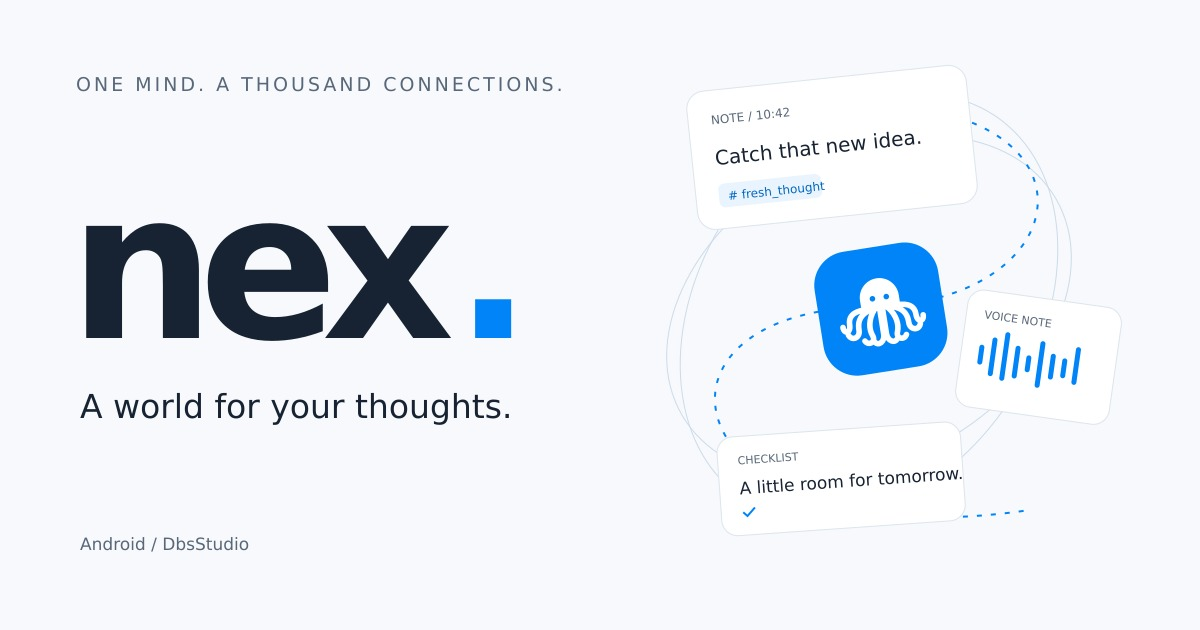
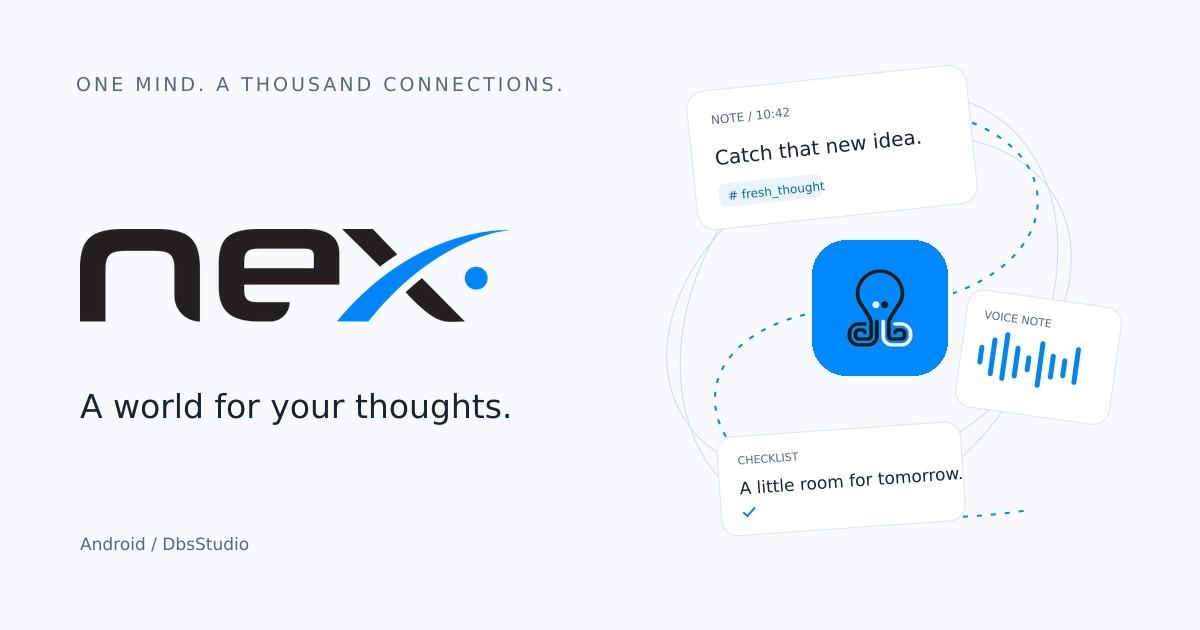
feat(nex): the real octopus and wordmark, and a share image that carries them
- NexMark is now the final octopus from the Nex brand files, and the new
  NexWordmark the "nex" logotype; both draw their outline in currentColor
  and their blue in --nx-mark-accent, so the same marks serve the light
  page, the dark one and the blue app tile.
- The masthead, the hero's app tile, the "first day" artwork and the footer
  use them in place of the provisional mark and the typed "nex.".
- og.jpg: the wordmark and the app icon replace the typed logo and the
  provisional octopus.
- README and PLACEHOLDERS: the logo TODO is done; store links and the app
  screenshot remain.

Claude-Session: https://claude.ai/code/session_012HC7oYUuF9sxZFHGGsEkEe

diff --git a/src/pages/nex-landing.css b/src/pages/nex-landing.css
@@ -62,9 +62,9 @@ html.dark .nex-page {
 .nex-shell { max-width: 1380px; padding: 0 50px; margin-inline: auto; }
 .nex-masthead { display: flex; align-items: center; justify-content: space-between; padding: 31px 0; gap: 20px; border-bottom: 1px solid var(--nx-rule); }
 .nex-brand { display: flex; align-items: center; gap: 8px; color: var(--nx-ink); text-decoration: none; }
-.nex-brand > span { font: 700 35px/1 "Nex Inter", sans-serif; letter-spacing: -2px; }
-.nex-brand-dot { color: var(--nx-blue); }
-.nex-mark { width: 37px; height: 37px; color: var(--nx-blue); }
+.nex-brand { --nx-mark-accent: var(--nx-blue); }
+.nex-wordmark { height: 26px; width: auto; color: var(--nx-ink); }
+.nex-mark { width: 30px; height: 36px; color: var(--nx-ink); }
 .nex-masthead-line { color: var(--nx-muted); font-size: 12px; margin-inline-start: auto; margin-inline-end: 34px; }
 .nex-tools { display: flex; align-items: center; gap: 8px; color: var(--nx-muted); font-size: 12px; }
 .nex-tools > a { display: inline-flex; align-items: center; min-height: 44px; padding-inline: 7px; text-decoration: none; }
@@ -103,9 +103,9 @@ html.dark .nex-theme-sun { display: block; }
 .nex-connections circle { fill: var(--nx-blue); stroke: none; }
 .nex-connections .nex-connection-thread { stroke: var(--nx-blue); stroke-width: 1.4; stroke-dasharray: 6 8; animation: nex-thread 20s linear infinite; }
 .nex-thought-core { position: absolute; top: 32%; left: 37%; width: 137px; height: 137px; display: flex; align-items: center; justify-content: center; flex-direction: column; gap: 3px; background: var(--nx-blue); color: #fff; border-radius: 42px; transform: rotate(-11deg); animation: nex-core-float 6s ease-in-out infinite; }
-.nex-thought-core svg { --nx-card: var(--nx-blue); width: 80px; height: 80px; }
-.nex-thought-core > span { font: 700 22px/1 "Nex Inter", sans-serif; letter-spacing: -1px; }
-html.dark .nex-thought-core { color: #0b111b; }
+.nex-thought-core { --nx-mark-accent: #fff; color: #10151d; }
+.nex-thought-core svg { width: 62px; height: 72px; }
+.nex-thought-core svg.nex-core-word { width: 64px; height: auto; margin-top: 4px; }
 .nex-scene-note { position: absolute; background: var(--nx-card); border: 1px solid var(--nx-rule); border-radius: 18px; padding: 19px; box-shadow: 0 16px 40px var(--nx-shadow); transform-origin: center; transition: transform .7s cubic-bezier(.2,.7,.2,1), border-color .4s, box-shadow .4s; }
 .nex-scene-meta { display: flex; align-items: center; gap: 6px; font-size: 10px; color: var(--nx-muted); margin-bottom: 13px; }
 .nex-scene-meta > span:last-child:not(:nth-child(2)) { margin-inline-start: auto; }
@@ -241,8 +241,8 @@ html.dark .nex-thought-core { color: #0b111b; }
 .nex-ai-switch i::before { content: ""; width: 18px; height: 18px; background: var(--nx-card); border-radius: 50%; }
 .nex-origin-world { display: grid; grid-template-columns: 1fr 1fr; gap: 50px; align-items: center; padding: 40px 0; }
 .nex-origin-art { position: relative; height: 290px; display: flex; align-items: center; justify-content: center; direction: ltr; }
-.nex-origin-art > span { font: 800 clamp(130px,15vw,230px)/1 "Nex Inter", sans-serif; letter-spacing: -15px; color: var(--nx-tint); -webkit-text-stroke: 1px var(--nx-rule); }
-.nex-origin-mark { position: absolute; width: 145px; height: 145px; color: var(--nx-blue); transform: rotate(-12deg); animation: nex-origin-wave 7s ease-in-out infinite; }
+.nex-origin-word { width: clamp(260px,30vw,440px); height: auto; color: var(--nx-tint); --nx-mark-accent: var(--nx-tint); }
+.nex-origin-mark { position: absolute; width: 130px; height: 151px; color: var(--nx-ink); --nx-mark-accent: var(--nx-blue); transform: rotate(-8deg); animation: nex-origin-wave 7s ease-in-out infinite; }
 .nex-origin-copy > p { color: var(--nx-muted); font-size: 14px; margin-top: 17px; }
 .nex-origin-copy .nex-origin-tagline { color: var(--nx-ink); font-weight: 500; }
 .nex-origin-copy a { display: inline-flex; align-items: center; min-height: 44px; color: var(--nx-muted); text-decoration: none; font-size: 12px; margin-top: 10px; }
@@ -318,8 +318,8 @@ html.dark .nex-thought-core { color: #0b111b; }
   .nex-scene-wave i { max-height: 39px; }
   .nex-scene-voice p { font-size: 9px; }
   .nex-thought-core { width: 85px; height: 85px; border-radius: 24px; top: 31%; }
-  .nex-thought-core svg { width: 51px; height: 51px; }
-  .nex-thought-core > span { font-size: 16px; }
+  .nex-thought-core svg { width: 40px; height: 46px; }
+  .nex-thought-core svg.nex-core-word { width: 44px; }
   .nex-capture-switch { margin-top: 17px !important; }
   .nex-capture-switch label > span { padding: 9px 11px; gap: 5px; font-size: 10px; }
   .nex-capture-switch legend { font-size: 10px; }
@@ -344,16 +344,16 @@ html.dark .nex-thought-core { color: #0b111b; }
   .nex-yesterday-notes .nex-card { transform: none; margin: 0; }
   .nex-origin-world { grid-template-columns: 1fr; gap: 0; padding-top: 0; }
   .nex-origin-art { height: 220px; }
-  .nex-origin-art > span { font-size: 180px; }
-  .nex-origin-mark { width: 110px; height: 110px; }
+  .nex-origin-word { width: 240px; }
+  .nex-origin-mark { width: 96px; height: 112px; }
   .nex-origin-copy { text-align: center; }
   .nex-final-cta { padding: 19px 20px; font-size: 14px; }
   .nex-footer { margin-top: 50px; font-size: 10px; }
 }
 @media (max-width: 380px) {
   .nex-shell { padding-inline: 15px; }
-  .nex-brand > span { font-size: 29px; }
-  .nex-mark { width: 30px; height: 30px; }
+  .nex-wordmark { height: 22px; }
+  .nex-mark { width: 25px; height: 30px; }
   .nex-tools { gap: 4px; }
   .nex-tools button { width: 40px; height: 40px; }
   .nex-tools > a { font-size: 11px; }
@@ -413,3 +413,7 @@ html.dark .nex-thought-core { color: #0b111b; }
 .nex-wave-40 { height: 40px; }
 .nex-wave-43 { height: 43px; }
 .nex-wave-46 { height: 46px; }
+
+/* The real wordmark in the footer, at the size of the words beside it. */
+.nex-footer-brand { display: inline-flex; align-items: center; gap: 6px; --nx-mark-accent: var(--nx-blue); }
+.nex-footer-word { height: 13px; width: auto; color: var(--nx-ink); }

diff --git a/src/components/nex/NexMark.tsx b/src/components/nex/NexMark.tsx
@@ -1,12 +1,16 @@
-/** Small provisional octopus mark; replace with the final brand asset when supplied. */
-export default function NexMark({ className = "" }: { className?: string }) {
+/**
+ * The Nex octopus: one mind, a thousand connections.
+ *
+ * Drawn from the brand file in the Nex repository (`docs/brand/nex_logo.svg`): the
+ * outline takes `currentColor`, and the blue part `--nx-mark-accent`, so one
+ * mark serves a light page, a dark one and the blue app tile alike.
+ */
+export default function NexMark({ className = "", title }: { className?: string; title?: string }) {
   return (
-    <svg className={className} viewBox="0 0 64 64" fill="none" aria-hidden="true">
-      <path d="M18 34V25a14 14 0 0 1 28 0v9" fill="currentColor" />
-      <g stroke="currentColor" strokeWidth="5" strokeLinecap="round">
-        <path d="M20 32c-8 0-12 3-12 9s-5 6-5 1M23 33c-8 3-9 8-9 13s-6 7-8 2M27 33c-5 6-6 13-4 18s-4 7-6 3M31 33v18c0 6-5 8-7 5M33 33v18c0 6 5 8 7 5M37 33c5 6 6 13 4 18s4 7 6 3M41 33c8 3 9 8 9 13s6 7 8 2M44 32c8 0 12 3 12 9s5 6 5 1" />
-      </g>
-      <g fill="var(--nx-card, #fff)"><circle cx="27" cy="25" r="2" /><circle cx="37" cy="25" r="2" /></g>
+    <svg className={className} viewBox="0 0 236.1915 274.4374" role={title ? "img" : undefined} aria-hidden={title ? undefined : true} aria-label={title}>
+      <path fill="currentColor" d="M108.6274,172.054c-2.9109-.0014-5.4976,2.2664-5.519,5.4205l-.1368,20.1978-.1173,25.3949c-.0482,10.4166-10.7,18.5768-20.7668,18.5532l-28.5762-.0668c-10.3431-.4128-20.1362-10.3821-20.183-20.4744l-.0492-10.601c0-.0037.0002-.0073.0002-.011.403-7.9166,5.2051-14.6503,12.0643-18.3325,3.597-1.931,7.2662-2.8043,11.3593-2.7962l8.2596.0164,9.056.0322c2.7626.0098,5.0063-2.2293,5.0021-4.992-.0042-2.7495-2.234-4.9763-4.9835-4.9768l-18.5241-.0034c-5.485.2311-10.5704,1.4846-15.3559,4.1522-6.4368,3.5881-11.6586,8.9697-14.9488,15.5867-3.401,6.8397-3.7127,15.5106-3.0237,23.0826.402,4.4173,1.7016,8.7273,3.9644,12.5422,3.5679,6.0152,8.694,10.8138,14.9407,13.8792,4.2614,2.0911,8.6578,3.0325,13.422,3.026l27.9886-.038c6.784-.0092,13.1212-2.0891,18.601-5.9681,2.7289-1.9318,5.0879-4.0449,7.101-6.7124,3.7136-4.921,5.9424-10.6293,5.9483-16.9135l.0416-44.4263c.0031-3.2724-2.5424-5.5701-5.5646-5.5715Z" />
+      <path fill="currentColor" d="M164.9855,55.278c10.3053,12.3194,15.2648,28.3142,13.4786,44.3103-.9949,8.9104-4.9261,17.3772-9.8051,24.8089l-5.7944,8.8261-6.7977,10.4227c-4.022,6.1669-7.8889,12.252-11.4667,18.681l-3.0257,6.1617c-2.3876,4.8624-2.8956,9.9833-2.8782,15.3888l.1199,37.317c.0228,7.0851,6.7451,12.9695,13.7455,12.9726l29.2828.0129c2.9592.0013,5.6697-1.1006,7.9923-2.7471,3.5342-2.5053,5.8526-6.3134,6.09-10.6855.1696-3.1231.2308-6.1141-.0728-9.2849-.7532-7.8677-7.451-13.9319-15.3707-13.9448l-10.6483-.0173c-6.9958-.0114-12.675,5.653-12.6821,12.6487-.0025,2.4847,2.0095,4.5012,4.4942,4.5043l1.7687.0023c2.4738.0031,4.4861-1.9914,4.5052-4.4651.0115-1.4948,1.2312-2.6979,2.726-2.689l9.5457.0566c2.9779.0176,5.1542,2.6768,5.1259,5.4799l-.0653,6.4632c-.026,2.5661-2.5486,4.7206-5.1884,4.7247l-24.9561.0389c-2.8465.0044-5.3843-2.4256-5.3867-5.2321l-.0317-37.36c-.0029-3.4337.9073-6.6132,2.3858-9.5922l1.6119-3.248c3.5032-6.2958,7.3059-12.2708,11.2437-18.3436l15.2606-23.5348c3.877-5.9791,6.6165-12.4188,8.2414-19.3401,3.9214-16.7032-.2288-36.2953-9.5403-50.6548-5.3591-8.2641-12.2083-15.4023-20.1663-21.1974-5.0789-3.6984-10.4885-6.512-16.3832-8.6584-7.8343-2.8527-15.8136-4.2911-23.7484-4.35h-1c-7.9348.0588-15.9141,1.4973-23.7484,4.35-5.8947,2.1464-11.3043,4.96-16.3832,8.6584-7.9581,5.795-14.8073,12.9333-20.1663,21.1974-9.3116,14.3594-13.4617,33.9515-9.5403,50.6548,1.6249,6.9213,4.3644,13.361,8.2414,19.3401l15.2606,23.5348c3.9378,6.0729,7.7405,12.0479,11.2437,18.3436l1.6119,3.248c1.4785,2.9789,2.3887,6.1584,2.3858,9.5922l-.0317,37.36c-.0024,2.8065-2.5402,5.2365-5.3867,5.2321l-24.9561-.0389c-2.6398-.0041-5.1624-2.1586-5.1884-4.7247l-.0653-6.4632c-.0284-2.8031,2.1479-5.4622,5.1259-5.4799l9.5457-.0566c1.4948-.0089,2.7144,1.1943,2.726,2.689.019,2.4738,2.0314,4.4682,4.5052,4.4651l1.7687-.0023c2.4847-.0031,4.4967-2.0195,4.4942-4.5043-.0071-6.9958-5.6863-12.6601-12.6821-12.6487l-10.6483.0173c-7.9197.0128-14.6176,6.077-15.3707,13.9448-.3036,3.1708-.2423,6.1618-.0728,9.2849.2374,4.3721,2.5558,8.1802,6.09,10.6855,2.3226,1.6464,5.0331,2.7484,7.9923,2.7471l29.2828-.0129c7.0005-.0031,13.7227-5.8875,13.7455-12.9726l.1199-37.317c.0174-5.4055-.4906-10.5264-2.8782-15.3888l-3.0257-6.1617c-3.5778-6.4291-7.4446-12.5142-11.4667-18.681l-6.7977-10.4227-5.7944-8.8261c-4.879-7.4317-8.8102-15.8985-9.8051-24.8089-1.7862-15.9961,3.1733-31.9909,13.4786-44.3103,6.0887-7.2787,13.7703-13.0823,22.3987-17.0183,7.7969-3.5567,15.9079-5.3321,23.991-5.4078h1c8.0831.0757,16.1942,1.8511,23.991,5.4078,8.6284,3.936,16.3101,9.7396,22.3987,17.0183Z" />
+      <path fill="var(--nx-mark-accent, #0084f7)" d="M210.9834,199.1538c-3.2903-6.6169-8.512-11.9985-14.9489-15.5867-4.7854-2.6676-9.8708-3.9211-15.3559-4.1522l-18.524.0034c-2.7495.0005-4.9794,2.2273-4.9836,4.9768-.0042,2.7627,2.2394,5.0018,5.0021,4.992l9.0559-.0322,8.2596-.0164c4.0931-.0081,7.7623.8652,11.3593,2.7962,6.8591,3.6822,11.6613,10.416,12.0643,18.3325.0001.0037.0002.0073.0003.011l-.0492,10.601c-.0468,10.0923-9.84,20.0616-20.183,20.4744l-28.5763.0668c-10.0669.0236-20.7187-8.1366-20.7668-18.5532l-.1174-25.3949-.1368-20.1978c-.0214-3.1541-2.6082-5.4219-5.519-5.4205-3.0222.0015-5.5676,2.2991-5.5646,5.5715l.0416,44.4263c.0059,6.2842,2.2346,11.9926,5.9482,16.9135,2.0131,2.6675,4.372,4.7806,7.101,6.7124,5.4799,3.879,11.817,5.9589,18.601,5.9681l27.9885.038c4.7642.0065,9.1607-.9349,13.422-3.026,6.2466-3.0653,11.3729-7.864,14.9407-13.8792,2.2628-3.8149,3.5625-8.1249,3.9644-12.5422.689-7.572.3773-16.2429-3.0236-23.0826Z" />
     </svg>
   );
 }

diff --git a/src/pages/NexLandingPage.tsx b/src/pages/NexLandingPage.tsx
@@ -4,6 +4,7 @@ import { ArrowDown, ArrowDownLeft, ArrowUp, Check, Circle, FileText, Image, Link
 import { PageMeta } from "../components/PageMeta";
 import LocalNote from "../components/nex/LocalNote";
 import NexMark from "../components/nex/NexMark";
+import NexWordmark from "../components/nex/NexWordmark";
 import ThoughtStage from "../components/nex/ThoughtStage";
 import SearchExperiment from "../components/nex/SearchExperiment";
 import { useApp } from "../lib/app";
@@ -65,7 +66,7 @@ export default function NexLandingPage() {
       <div className="nex-reading-progress" aria-hidden="true" />
       <div className="nex-shell">
         <header className="nex-masthead">
-          <a className="nex-brand" href="#nex-world" aria-label={c.pageLabel}><NexMark className="nex-mark" /><span dir="ltr">nex<span className="nex-brand-dot">.</span></span></a>
+          <a className="nex-brand" href="#nex-world" aria-label={c.pageLabel}><NexMark className="nex-mark" /><NexWordmark className="nex-wordmark" /></a>
           <span className="nex-masthead-line">{e.eyebrow}</span>
           <div className="nex-tools">
             <Link to={fa ? "/en/nex/" : "/nex/"} lang={fa ? "en" : "fa"} aria-label={c.languageLabel}>{c.language}</Link>
@@ -144,12 +145,12 @@ export default function NexLandingPage() {
             </Day>
 
             <Day id="nex-first-day" title={c.firstDay} aside={c.firstDayAside}>
-              <div className="nex-origin-world"><div className="nex-origin-art" aria-hidden="true"><span>nex</span><NexMark className="nex-origin-mark" /></div><div className="nex-origin-copy"><h3 className="nex-chapter-title"><Lines text={e.firstDayHeadline} /></h3><p>{e.firstDayLead}</p><p className="nex-origin-tagline">{c.tagline}</p><a href={fa ? "/" : "/en"}>{c.maker}</a></div></div>
+              <div className="nex-origin-world"><div className="nex-origin-art" aria-hidden="true"><NexWordmark className="nex-origin-word" /><NexMark className="nex-origin-mark" /></div><div className="nex-origin-copy"><h3 className="nex-chapter-title"><Lines text={e.firstDayHeadline} /></h3><p>{e.firstDayLead}</p><p className="nex-origin-tagline">{c.tagline}</p><a href={fa ? "/" : "/en"}>{c.maker}</a></div></div>
               <a className="nex-final-cta" href="#nex-download"><span>{c.downloadText}</span><ArrowUp size={20} aria-hidden="true" /></a>
             </Day>
           </div>
         </div>
-        <footer className="nex-footer"><span dir="ltr">nex / DbsStudio</span><a href="#nex-world">{e.backToHero}<ArrowUp size={15} aria-hidden="true" /></a></footer>
+        <footer className="nex-footer"><span className="nex-footer-brand" dir="ltr"><NexWordmark className="nex-footer-word" /> / DbsStudio</span><a href="#nex-world">{e.backToHero}<ArrowUp size={15} aria-hidden="true" /></a></footer>
       </div>
     </div>
   </>;

diff --git a/src/components/nex/NexWordmark.tsx b/src/components/nex/NexWordmark.tsx
@@ -1,0 +1,18 @@
+/**
+ * The "nex" wordmark, with its blue stroke.
+ *
+ * Drawn from the brand file in the Nex repository (`docs/brand/nex_logo_type.svg`): the
+ * outline takes `currentColor`, and the blue part `--nx-mark-accent`, so one
+ * mark serves a light page, a dark one and the blue app tile alike.
+ */
+export default function NexWordmark({ className = "", title }: { className?: string; title?: string }) {
+  return (
+    <svg className={className} viewBox="0 0 900.0822 217.1348" role={title ? "img" : undefined} aria-hidden={title ? undefined : true} aria-label={title}>
+      <path fill="currentColor" d="M273.2514,198.0063c-27.9847,0-50.6708-22.6861-50.6708-50.6708v-52.0313c0-30.6064-8.5015-38.0879-41.1484-38.0879h-55.0918c-31.9668,0-41.1489,7.4814-41.1489,38.0879v102.7021h-50.6709v-104.4023c0-58.8325,20.0645-79.917,88.4189-79.917h61.5532c68.6948,0,88.7588,21.0845,88.7588,79.917v104.4023h0Z" />
+      <path fill="currentColor" d="M361.3315,124.5507v8.5015c0,22.4448,6.8018,26.5259,30.6064,26.5259h59.853c0,21.2233-17.2049,38.4282-38.4282,38.4282h-21.4248c-58.4922,0-81.2773-21.0845-81.2773-70.0552v-42.5088c0-53.7314,18.7041-71.7554,83.6582-71.7554h89.0986c52.7114,0,67.3345,21.0845,67.3345,50.3306v60.5332h-189.4204ZM500.081,68.0985c0-12.2427-5.4409-15.3032-20.7441-15.3032h-84.3379c-25.5059,0-33.6675,2.7207-33.6675,29.2461v9.8623h138.7495v-23.8052Z" />
+      <path fill="var(--nx-mark-accent, #0084f7)" d="M608.5122,198.0063s-62.7047-.6252-62.7047,0C706.3112,3.3623,890.5281,15.9327,890.5281,15.9327c0,0-143.038,7.1349-282.0159,182.0736Z" />
+      <path fill="currentColor" d="M682.8498,139.6855l11.2852,12.0868c55.9391,55.9391,66.0732,46.2338,106.4205,46.234h0s-85.3818-86.3167-85.3818-86.3167c-10.6105,8.4734-21.4095,17.7771-32.3239,27.9958Z" />
+      <path fill="currentColor" d="M666.0425,64.4799l-48.7862-50.7931h-60.873s75.4403,74.8124,75.4403,74.8124c11.3323-8.8257,22.7773-16.8059,34.2189-24.0193Z" />
+    </svg>
+  );
+}

diff --git a/src/components/nex/ThoughtStage.tsx b/src/components/nex/ThoughtStage.tsx
@@ -4,6 +4,7 @@ import type { Lang } from "../../lib/i18n";
 import { NEX_COPY } from "../../lib/nex";
 import { NEX_EXPERIENCE } from "../../lib/nexExperience";
 import NexMark from "./NexMark";
+import NexWordmark from "./NexWordmark";
 
 const BARS = [18, 32, 23, 46, 34, 20, 39, 55, 31, 19, 44, 27, 53, 35, 22, 41, 29, 18, 37, 51, 24, 32, 17, 27];
 
@@ -22,7 +23,7 @@ export default function ThoughtStage({ lang }: { lang: Lang }) {
         <path className="nex-connection-thread" d="M130 155C390 20 480 215 300 270S160 420 460 411" />
         <circle cx="96" cy="288" r="5" /><circle cx="448" cy="104" r="5" /><circle cx="493" cy="340" r="5" />
       </svg>
-      <div className="nex-thought-core" aria-hidden="true"><NexMark /><span>nex</span></div>
+      <div className="nex-thought-core" aria-hidden="true"><NexMark /><NexWordmark className="nex-core-word" /></div>
       <article className="nex-scene-note nex-scene-text" dir={lang === "fa" ? "rtl" : "ltr"}>
         <div className="nex-scene-meta"><FileText size={15} aria-hidden="true" /><span>{c.textLabel}</span><span>{lang === "fa" ? "۱۰:۴۲" : "10:42"}</span></div>
         <p>{e.sampleNote}</p><span className="nex-scene-tag"># {lang === "fa" ? "فکر_تازه" : "fresh_thought"}</span>

diff --git a/src/components/nex/README.md b/src/components/nex/README.md
@@ -22,7 +22,8 @@ Continuous CSS motion has an explicit pause/resume button and follows reduced-mo
 1. Supply the actual Cafe Bazaar app URL; replace the `#` in `NEX_STORES.bazaar.href` and remove its TODO marker.
 2. Supply the actual Myket app URL; replace the `#` in `NEX_STORES.myket.href` and remove its TODO marker.
 3. Supply the real app screenshot and enable `NEX_SCREENSHOT.ready`.
-4. Supply the final octopus logo; replace the provisional `NexMark` artwork.
+
+The octopus (`NexMark.tsx`) and the wordmark (`NexWordmark.tsx`) are the final brand artwork, drawn from `docs/brand/nex_logo.svg` and `nex_logo_type.svg` in the Nex repository. Their outlines follow `currentColor` and the blue part `--nx-mark-accent`. The share image `public/images/nex/og.jpg` carries the same wordmark and the app icon.
 
 Download links marked `#` are explicitly disabled and show a visible pending-link explanation. When actual URLs are set they work normally.
 

diff --git a/public/images/nex/PLACEHOLDERS.md b/public/images/nex/PLACEHOLDERS.md
@@ -7,4 +7,4 @@
 
 The screenshot is deliberately absent. A labelled, hatched placeholder is rendered instead of a broken image. Place the real file here, then set `NEX_SCREENSHOT.ready = true` in `src/lib/nex.ts`. It uses a lazy-loading `<img>` with fixed intrinsic dimensions and descriptive alt text.
 
-The octopus in `src/components/nex/NexMark.tsx` is a provisional vector interpretation. TODO: replace it with the owner's final Nex octopus mark. Its two on-page uses are decorative beside readable text.
+The octopus (`src/components/nex/NexMark.tsx`) and the wordmark (`NexWordmark.tsx`) are the final brand artwork from the Nex repository; `og.jpg` uses the same wordmark and the app icon.
